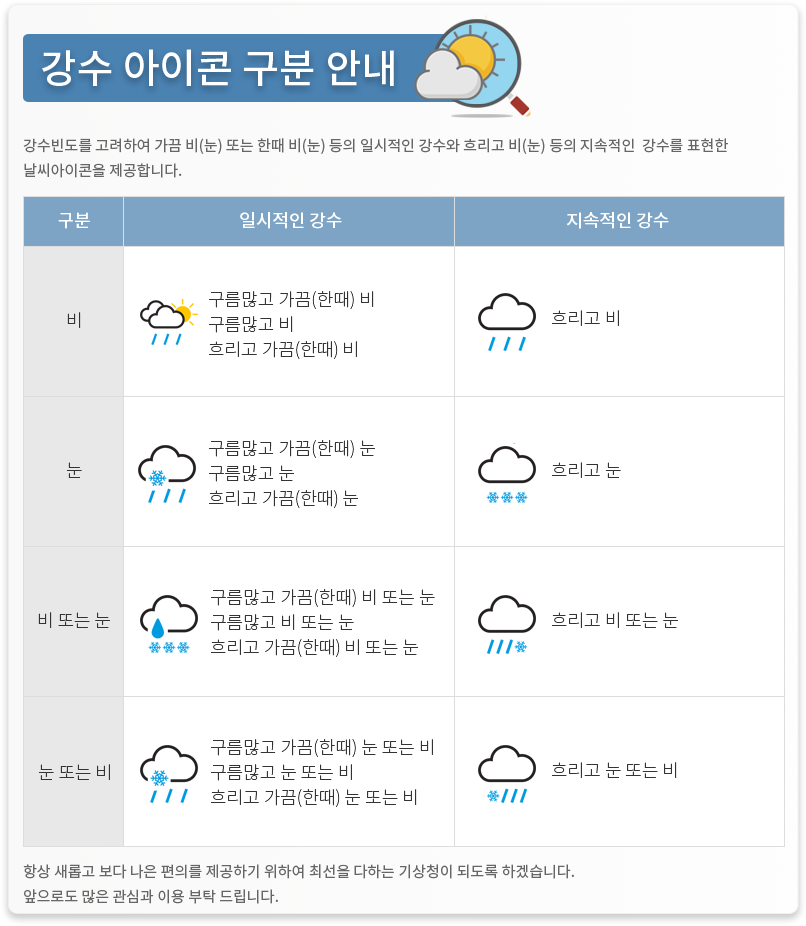
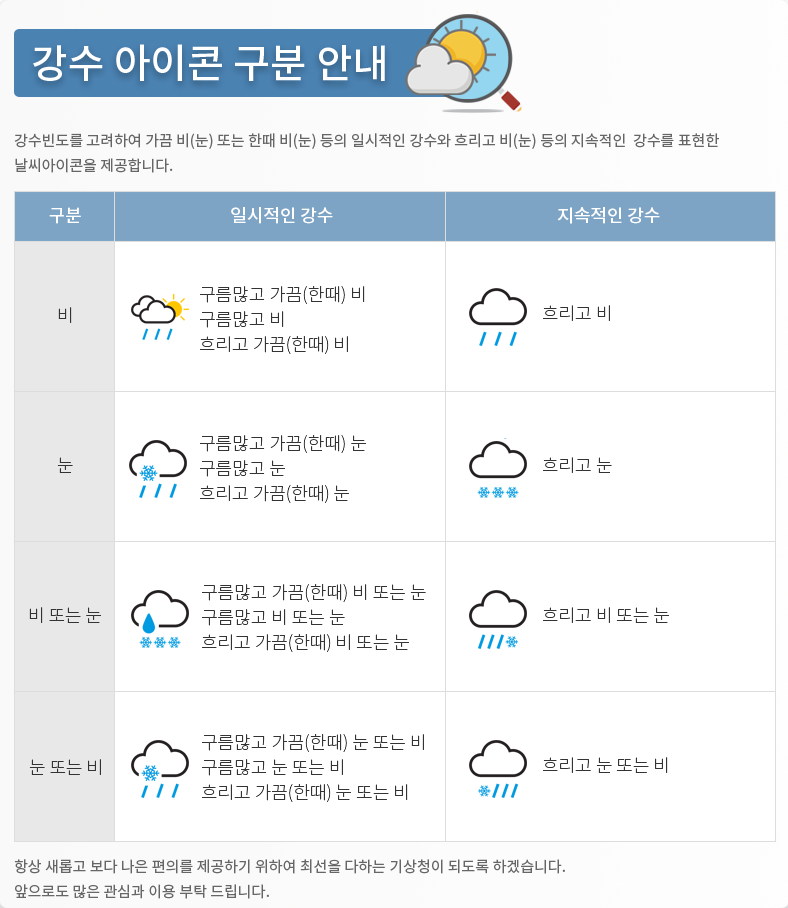
Commit 2021-11-03_19-48-40

diff --git a/https/weather/icons.html b/https/weather/icons.html
@@ -65,7 +65,7 @@ body, table, th, td {
 	font-weight: bold;
 	font-size: 1.5rem;
 	color:white;
-	/* text-shadow:0 0 0.2rem white; */
+	text-shadow:0 0 0.3rem #125;
 	background-color: #457ab2;
 	border-radius: 0.5rem;
 }
@@ -75,15 +75,17 @@ body, table, th, td {
 }
 .img_info img {
 	width: 95%;
-	max-width: 806px;
+	max-width: 788px;
 	margin:auto;
+	border-radius: 0.5rem;
+	overflow: hidden;
 }
 
 table {
     border-collapse: separate;
     border-spacing: 0;
 	width:95%;
-	max-width:806px;
+	max-width: 788px;
 	margin: 0 auto;
 	background-color:#fffbf8;
 	border-bottom: solid 0.2rem #555;
